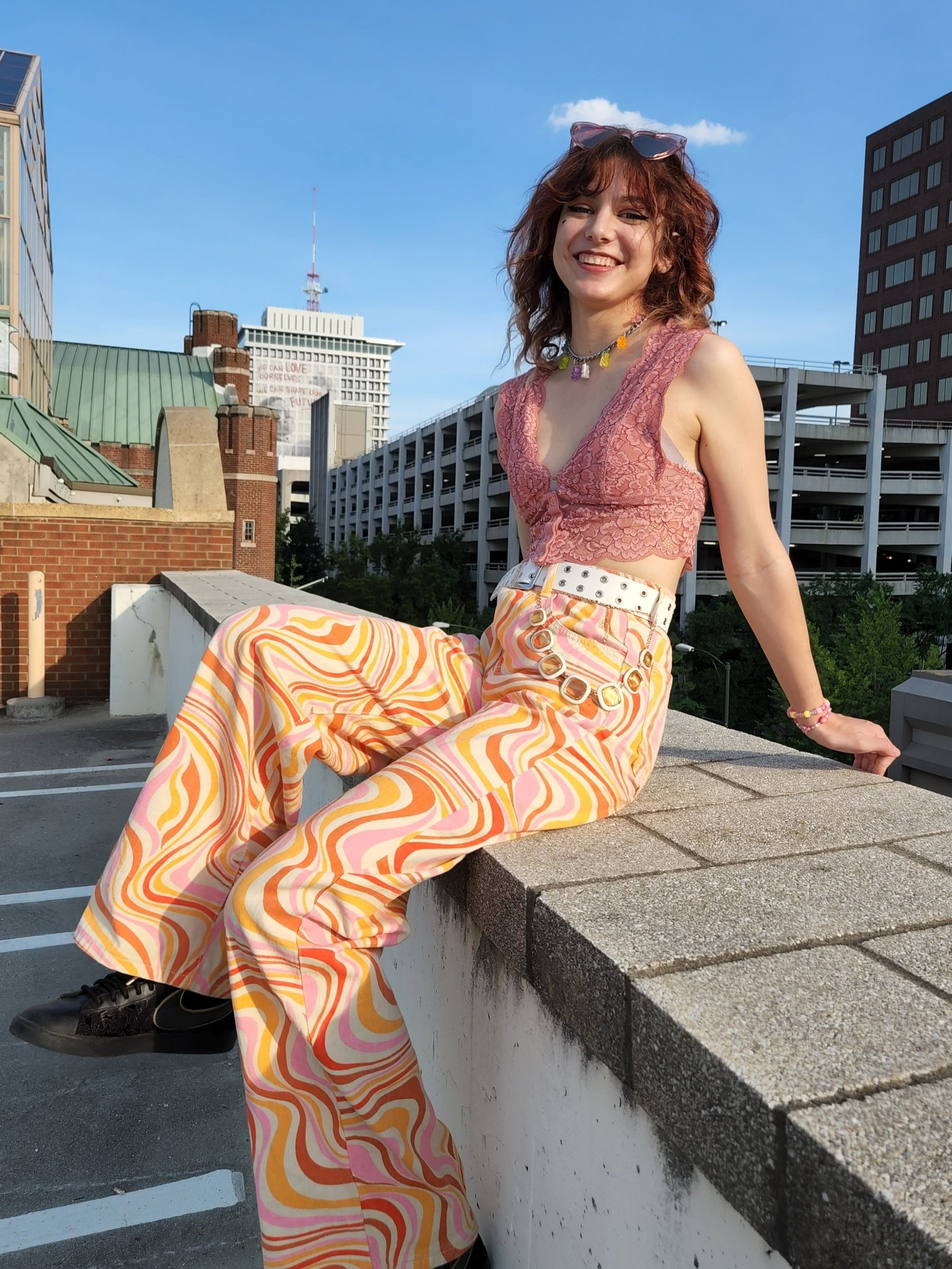
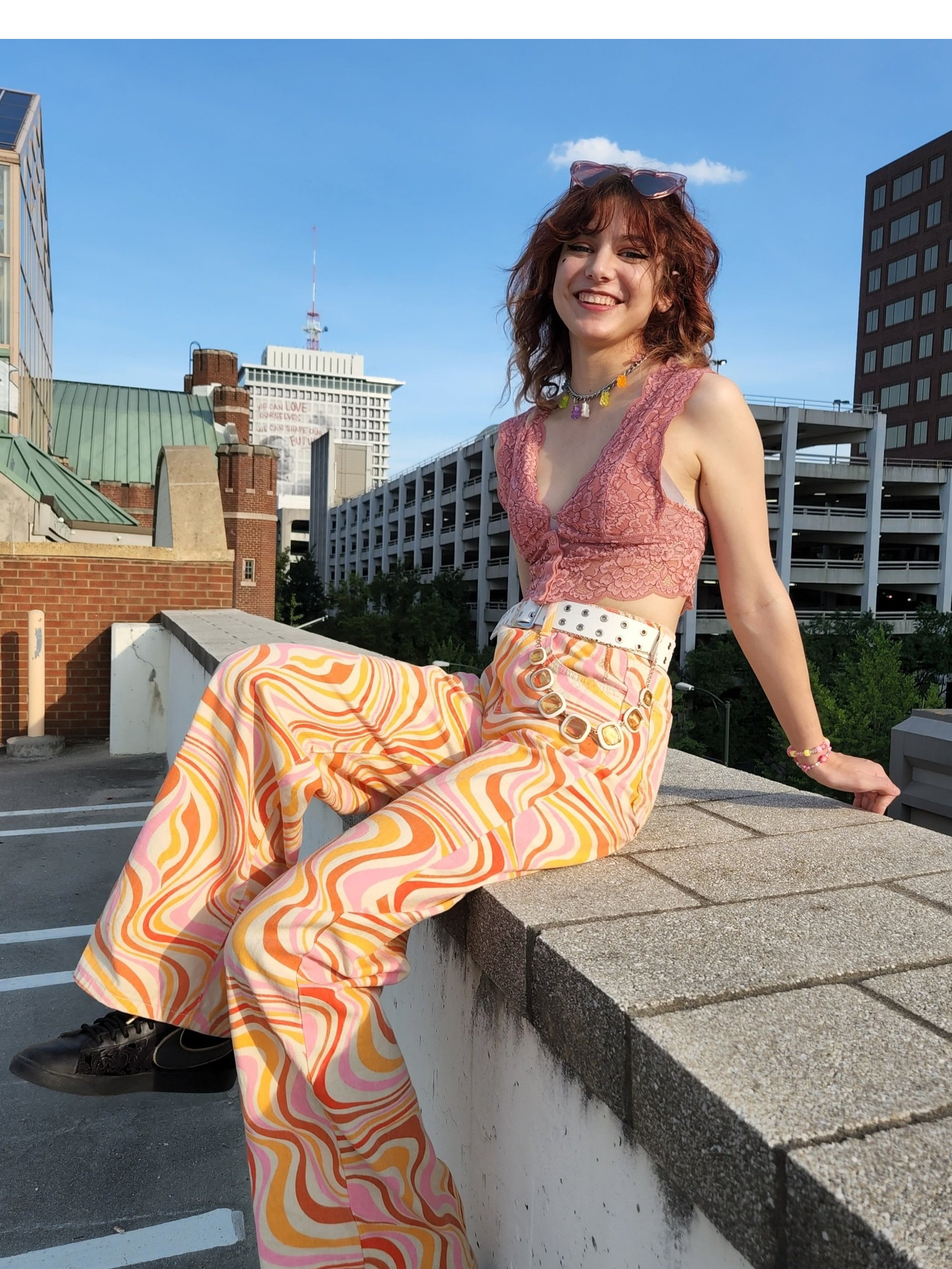
finish image overlay step

diff --git a/index.html b/index.html
@@ -48,9 +48,12 @@
     <div class="story-left">
       <div class="overlay-tank">
         <div class="story-image-back"
-        style="background-image: url(./images/main-portrait.jpg); background-size: cover;">
-    </div>
-        <img src="./images/portrait-placeholder.png" alt="self portrait">
+          style="background-image: url(./images/main-portrait.jpg); background-size: cover;">
+        </div>
+        <div class="story-image-front"
+          style="background-image: url(./images/instagram-portrait.jpg); background-size: cover;">
+        </div>
+        <!-- <img src="./images/portrait-placeholder.png" alt="self portrait"> -->
       </div>
     </div>
     <div class="story-right">

diff --git a/style.css b/style.css
@@ -115,10 +115,23 @@ header {
   display: flex;
 }
 
-.story-image-back {
-  width: 488px;
-  height: 468px;
+
+.story-image-back, .story-image-front {
   background-position: center center;
   background-repeat: no-repeat;
   justify-content: center;
+}
+
+.story-image-back {
+  width: 488px;
+  height: 468px;
+  z-index: -1;
+}
+
+.story-image-front {
+  width: 338px;
+  height: 358px;
+  /* overlay in front */
+  z-index: 1;
+  margin: -284px 100px;
 }
